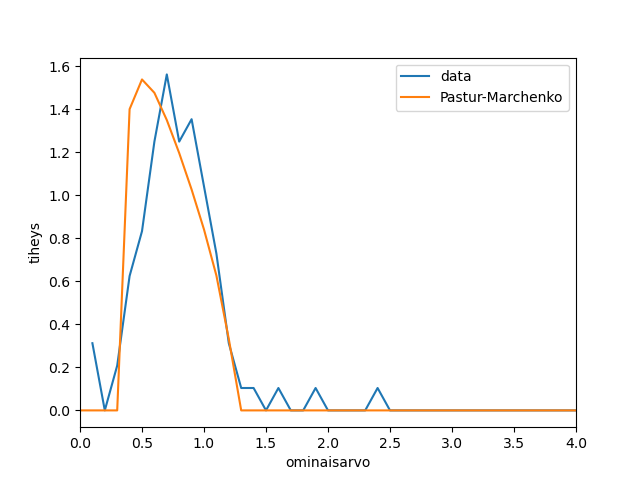
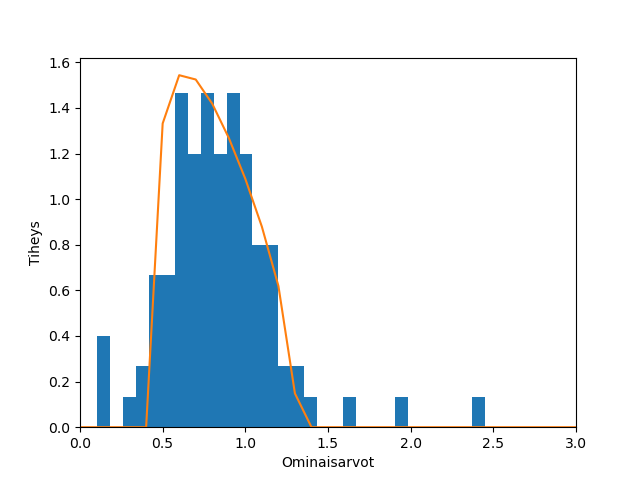
v2

diff --git a/_posts/2025-3-30-helsingin-pörssi-ominaisarvot.md b/_posts/2025-3-30-helsingin-pörssi-ominaisarvot.md
@@ -15,10 +15,26 @@ arvioimaan, montako riippumatonta faktoria ajaa tuottojen korrelaatioita eri vuo
 1 Helsingin Pörssissä listatut osakkeet
 ===
 
-Tarkastellaan Helsingin pörssissä (Nasdaq OMXH) listattuja 140 osaketta, joista löytyy yhtenäinen aikasarja vuosille 2015-2025. Niistä on saatavissa päivädataa Yahoon palvelun kautta. Osakkeiden päivätuotot lasketaan yksinkertaisuuden vuoksi suoraan kursseista ilman osinkojen huomiointia. Kurssikehitys muutetaan logaritmisiksi tuotoiksi.
+Tarkastellaan Helsingin pörssissä (Nasdaq OMXH) listattuja 97 osaketta, joista löytyy yhtenäinen aikasarja vuosille 2015-2025. Niistä on saatavissa päivädataa Yahoon palvelun kautta. Osakkeiden päivätuotot lasketaan yksinkertaisuuden vuoksi suoraan kursseista ilman osinkojen huomiointia. Kurssikehitys muutetaan logaritmisiksi tuotoiksi.
 
 Yahoo Finance löytää päivänoteeraukset 97:ltä Helsingin pörssin osakkeelta periodilta, joka alkaa 2015-08-15 ja loppuu 2025-08-15. Nämä ovat tikkerit 
-> AFAGR.he, AKTIA.he, ALISA.he, ALMA.he, ANORA.he, APETIT.he, TALLINK.he, ASPO.he, ACG1V.he, ATRAV.he, ALBAV.he, ALBBV.he, BIOBV.he, BITTI.he, BOREO.he, CAPMAN.he, CGCBV.he, CTY1S.he, CTH1V.he, CONSTI.he, DIGIA.he, DIGIGR.he, DOV1V.he, EEZY.he, ELEAV.he, ELISA.he, PAMPALO.he, ENENTO.he, ESENSE.he, EQV1V.he, ETTE.he, EVLI.he, EXL1V.he, FSECURE.he, FIA1S.he, FSKRS.he, FORTUM.he, GLA1V.he, GOFORE.he, HARVIA.he, HKSAV.he, HONBS.he, HUH1V.he, ILKKA2.he, ICP1V.he, INVEST.he, KALMAR.he, KAMUX.he, KEMIRA.he, KEMPOWR.he, KSL.he, KESKOA.he, KESKOB.he, KELAS.he, KHG.he, KOJAMO.he, KNEBV.he, KCR.he, KOSKI.he, KREATE.he, LAMOR.he, LAT1V.he, LEHTO.he, LINDEX.he, MANTA.he, MEKKO.he, MARAS.he, METSO.he, METSA.he, METSB.he, MUSTI.he, NESTE.he, NOHO.he, NOKIA.he, TYRES.he, NDA FI.he, NLG1V.he, OLVAS.he, OMASP.he, OPTOMED.he, OKDAV.he, OKDBV.he, ORNAV.he, ORNBV.he, ORTHEX.he, OUT1V.he, OVARO.he, PNA1V.he, PIHLIS.he, PON1V.he, PUUILO.he, QPR1V.he, QTCOM.he, RAIVV.he, RAP1V.he, RAUTE.he, REBL.he, REKA.he, RELAIS.he, REMEDY.he, REG1V.he, ROBIT.he, SAGCV.he, SAMPO.he, SANOMA.he, SCANFL.he, SIILI.he, SITOWS.he, SOLTEQ.he, SOSI1.he, SRV1V.he, SSABAH.he, SSABBH.he, SSH1V.he, STEAV.he, STERV.he, SUY1V.he, TAALA.he, TNOM.he, TEM1V.he, TLT1V.he, TELIA1.he, TTALO.he, TIETO.he, TOKMAN.he, TRH1V.he, TULAV.he, UNITED.he, UPM.he, VAIAS.he, VALMT.he, VALOE.he, VERK.he, VIK1V.he, WETTERI.he, WITH.he, WUF1V.he, WRT1V.he, YIT.he
+> ACG1V.HE, AFAGR.HE, AKTIA.HE, ALBAV.HE, ALBBV.HE, ALMA.HE',
+       'APETIT.HE, ASPO.HE, ATRAV.HE, BIOBV.HE, BITTI.HE, BOREO.HE',
+       'CAPMAN.HE, CTH1V.HE, CTY1S.HE, DIGIA.HE, DIGIGR.HE',
+       'DOV1V.HE, ELEAV.HE, ELISA.HE, ENENTO.HE, EQV1V.HE, ETTE.HE',
+       'EXL1V.HE, FORTUM.HE, FSKRS.HE, GLA1V.HE, HONBS.HE, HUH1V.HE',
+       'ICP1V.HE, ILKKA2.HE, INVEST.HE, KCR.HE, KELAS.HE, KEMIRA.HE',
+       'KESKOA.HE, KESKOB.HE, KNEBV.HE, LAT1V.HE, LINDEX.HE',
+       'MARAS.HE, MEKKO.HE, METSA.HE, METSB.HE, METSO.HE, NESTE.HE',
+       'NLG1V.HE, NOHO.HE, NOKIA.HE, OLVAS.HE, ORNAV.HE, ORNBV.HE',
+       'OUT1V.HE, OVARO.HE, PIHLIS.HE, PNA1V.HE, PON1V.HE, QPR1V.HE',
+       'RAIVV.HE, RAP1V.HE, RAUTE.HE, REBL.HE, REG1V.HE, REKA.HE',
+       'ROBIT.HE, SAGCV.HE, SAMPO.HE, SANOMA.HE, SCANFL.HE',
+       'SIILI.HE, SOLTEQ.HE, SOSI1.HE, SRV1V.HE, SSH1V.HE, STEAV.HE',
+       'STERV.HE, SUY1V.HE, TAALA.HE, TELIA1.HE, TEM1V.HE, TIETO.HE',
+       'TLT1V.HE, TNOM.HE, TRH1V.HE, TULAV.HE, TYRES.HE, UNITED.HE',
+       'UPM.HE, VAIAS.HE, VALMT.HE, VERK.HE, VIK1V.HE, WETTERI.HE',
+       'WITH.HE, WRT1V.HE, WUF1V.HE, YIT.HE
 
 ![nettomaahanmuutto](/images/eigen/replication.png)<br>
 _Kuvio 1. Tuottojen replikointi neljällä faktorilla._
@@ -67,6 +83,10 @@ Pastur-Marchenko-teoreemassa ainoat parametrit ovat keskihajonta s ja osakkeiden
 
 Suurin ominaisarvo vastaa suurimman varianssi portfoliota (jossa painot kuten ominaisvektorin alkiot). Näin tulkittuna OMXH:ssa on neljä merkitsevää toisistaan riippumatonta faktoria,
 muut varianssin lähteet ovat kohinaa. 
+
+![Ominaisarvot](/images/eigen/pm_vs_data.png)<br>
+_Kuvio 3. Pastur-Marchenko -jakauma verrattuna datan tiheyteen._
+
 
 Suoralla PCA:llä nähdään, että tuottoaikasarjasta riittää poimia ensimmäiset 5 faktoria, niin osakekurssien heilunnasta selittyy yli 90 prosenttia. Samaa kertoo satunnaismatriisien teoria: muutama ominaisarvo on merkitsevä, loppuja on vaikea erottaa kohinasta. Tässä tarkastellaan lineaarisia faktoreita, ja voi olla, että muitakin on.
 
@@ -183,3 +203,8 @@ Neljäs faktori onkin sitten epäselvempi.
    0.1493123  -0.09726085 -0.0228137   0.1498187  -0.06108896 -0.14681379
   -0.03201511  0.01506275  0.00221919 -0.08444986 -0.27375793  0.06986084
   -0.12661738]
+
+  6 Yhteenveto
+  ===
+
+  Muutama faktori on vastuussa suurimmasta osasta tuottoja.
